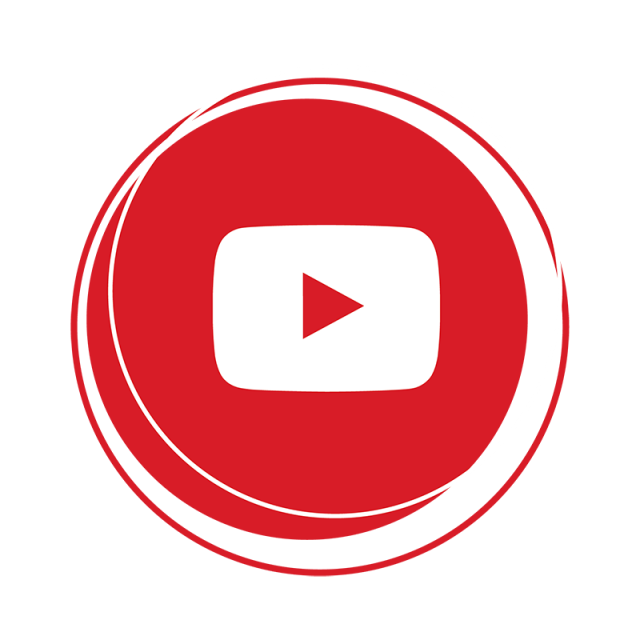
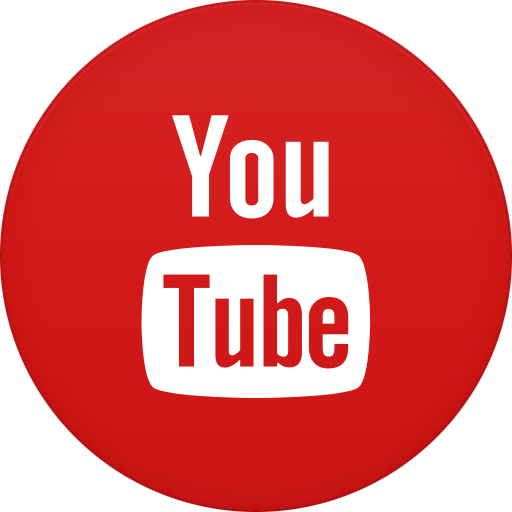
sadsadsa

diff --git a/src/scenes/Reincorporacion/Reincorporacion.js b/src/scenes/Reincorporacion/Reincorporacion.js
@@ -1,0 +1,95 @@
+import React, { useEffect } from 'react';
+import { Table, Divider, Tag, Card, Input } from 'antd';
+import { Link } from 'react-router-dom';
+import { useDispatch, useSelector } from 'react-redux';
+
+import LayoutHome from "../../components/LayoutHome/LayoutHome";
+import { json2excel, excel2json } from 'js2excel';
+import exel from "../../assets/image/excel.png";
+
+const { Search } = Input;
+const { Column, ColumnGroup } = Table;
+
+export const Reincorporacion = () => {
+
+	
+
+	// const handleToExel = () => {
+	// 	const jsonConvert = []
+	// 	cropsProducer.forEach(item => {
+	// 		jsonConvert.push({
+	// 			cosigo: item.id,
+	// 			Municipio: item.idMunicipio2.nombre,
+	// 			Vereda: item.idVereda2.nombre,
+	// 			CodigoProductor: item.codigoProductor2.nombres + ' ' + item.codigoProductor2.apellidos,
+	// 			LineaProductiva: item.idLineaProductiva2.nombre,
+	// 			dniProductor: item.dniProductor,
+	// 			hectareas: item.hectareas
+	// 		})
+	// 	})
+	// 	console.log(jsonConvert)
+	// 	json2excel({
+	// 		data: jsonConvert,
+	// 		name: 'user-info-data',
+	// 		formateDate: 'yyyy/mm/dd'
+	// 	});
+	// }
+
+
+	return (
+		<div className="queryuser">
+			<LayoutHome />
+			<div className="queryuser__content">
+				<div className="users--title">
+					<h1>Victimas</h1>
+				</div>
+				<div className="btn-exel">
+					<button className="btn-exel--exel"
+						// onClick={handleToExel}
+					><img className="img-excel" src={exel} /> Descargar</button>
+				</div>
+				<Card title={<p>Ex Combatintes</p>}
+					extra={<Search
+						placeholder="Buscar Usuario"
+						onSearch={value => console.log(value)}
+					/>}
+				>
+					<Table  rowKey="id">
+						<Column title="Nombre." dataIndex="dniProductor" Key="dniProductor" />
+						<Column title="Apellido" dataIndex="codigoProductor2.nombres" Key="codigoProductor2" />
+						<Column title="DNI" dataIndex="hectareas" Key="hectareas" />
+						<Column title="Telefono" dataIndex="idVereda2.nombre" Key="idVereda2" />
+						<Column title="CODIGO" dataIndex="idMunicipio2.nombre" Key="idMunicipio2" />
+						<Column title="Edad" dataIndex="idLineaProductiva2.nombre" Key="idLineaProductiva2" />
+					
+					</Table>
+				</Card>
+			</div>
+            <div className="queryuser__content">
+				<div className="users--title">
+					<h1>EX Combatintes</h1>
+				</div>
+				<div className="btn-exel">
+					<button className="btn-exel--exel"
+						// onClick={handleToExel}
+					><img className="img-excel" src={exel} /> Descargar</button>
+				</div>
+				<Card title={<p>Victimas</p>}
+					extra={<Search
+						placeholder="Buscar Usuario"
+						onSearch={value => console.log(value)}
+					/>}
+				>
+					<Table  rowKey="id">
+                    <Column title="Nombre." dataIndex="dniProductor" Key="dniProductor" />
+						<Column title="Apellido" dataIndex="codigoProductor2.nombres" Key="codigoProductor2" />
+						<Column title="DNI" dataIndex="hectareas" Key="hectareas" />
+						<Column title="Telefono" dataIndex="idVereda2.nombre" Key="idVereda2" />
+						<Column title="CODIGO" dataIndex="idMunicipio2.nombre" Key="idMunicipio2" />
+						<Column title="Edad" dataIndex="idLineaProductiva2.nombre" Key="idLineaProductiva2" />
+					</Table>
+				</Card>
+			</div>
+		</div>
+	)
+}

diff --git a/src/scenes/CadenasProductivas/CadenasProductivas.js b/src/scenes/CadenasProductivas/CadenasProductivas.js
@@ -54,17 +54,6 @@ export const CadenasProductivas = () => {
 			</div>
 			<div className="users__content-cards">
 				{/* listado de las opciones disponibles */}
-
-				<Card
-					className="users__content-cards--card"
-					hoverable
-					cover={<Link to="/tipocadena"><img alt="example" src={cadenas} /></Link>}
-				>
-					<Meta title="Cadenas Productivas" description="¡Gestiona Cadenas productivas dando click aqui!" />
-					<Link className="btn" to="/registrarcadenasproductivas" type="primary" shape="circle">
-						IR
-            			</Link>
-				</Card>
 				<Card
 					className="users__content-cards--card"
 					hoverable
@@ -74,16 +63,6 @@ export const CadenasProductivas = () => {
 					<Link className="btn" to="/cultivos" type="primary" shape="circle">
 						IR
                             </Link>
-				</Card>
-				<Card
-					className="users__content-cards--card"
-					hoverable
-					cover={<Link to="/tipocadena"><img alt="example" src={lineas} /></Link>}
-				>
-					<Meta title="Lineas Productivas" description="¡Gestiona Lineas productivas dando click aqui!" />
-					<Link className="btn" to="/tipocadena" type="primary" shape="circle">
-						IR
-            </Link>
 				</Card>
 			</div>
 			<div className="mesage"><span>¡</span>Aqui puedes gestionar Cadenas Productivas, puedes Consultarlas, Registrarlas, Actualizarlas, Y Eliminarlas con tan solo dar click sobre la opcion que desees<span>!</span></div>

diff --git a/src/scenes/CadenasProductivas/Cultivos/Cultivos.js b/src/scenes/CadenasProductivas/Cultivos/Cultivos.js
@@ -13,27 +13,7 @@ const { Column, ColumnGroup } = Table;
 
 export const Cultivo = () => {
 
-	const data = [
-		{
-			"userId": 1,
-			"userPhoneNumber": 1888888888,
-			"userAddress": 'xxxx',
-			"date": '2013/09/10 09:10'  // string
-		},
-		{
-			"userId": 2,
-			"userPhoneNumber": 1888888888,
-			"userAddress": 'xxxx',
-			"date": new Date()
-		},
-		{
-			"userId": 3,
-			"userPhoneNumber": 1888888888,
-			"userAddress": 'xxxx',
-			"date": new Date()
-		}
-	]
-
+	
 	const dispatch = useDispatch()
 	const { cropsProducer } = useSelector(state => state.crop)
 
@@ -91,15 +71,7 @@ export const Cultivo = () => {
 						<Column title="vereda." dataIndex="idVereda2.nombre" Key="idVereda2" />
 						<Column title="municipio" dataIndex="idMunicipio2.nombre" Key="idMunicipio2" />
 						<Column title="linea productiva" dataIndex="idLineaProductiva2.nombre" Key="idLineaProductiva2" />
-						<Column
-							title="Mas..."
-							Key="action"
-							render={(text, record) => (
-								<span>
-									<Link to="/profile">Ver Mas</Link>
-								</span>
-							)}
-						/>
+					
 					</Table>
 				</Card>
 			</div>

diff --git a/src/scenes/Users/QueryUser/QueryUser.js b/src/scenes/Users/QueryUser/QueryUser.js
@@ -30,7 +30,6 @@ export const QueryUser = () => {
 			title: 'nombres',
 			dataIndex: 'nombres',
 			key: 'nombres',
-			width: '30%',
 			filterDropdown: ({ setSelectedKeys, selectedKeys, confirm, clearFilters }) => (
 				<div style={{ padding: 8 }}>
 					<Input
@@ -63,10 +62,34 @@ export const QueryUser = () => {
 			title: 'apellidos',
 			dataIndex: 'apellidos',
 			key: 'apellidos',
-			width: '20%',
 		},
 		{
-			title: 'idOrganizacion2',
+			title: 'telefono',
+			dataIndex: 'telefono',
+			key: 'telefono',
+		},
+		{
+			title: 'dni',
+			dataIndex: 'dni',
+			key: 'dni',
+		},
+		{
+			title: 'Genero',
+			dataIndex: 'idGenero2.nombre',
+			key: 'idGenero',
+		},
+		{
+			title: 'codigo',
+			dataIndex: 'id',
+			key: 'id',
+		},
+		{
+			title: 'edad',
+			dataIndex: 'edad',
+			key: 'edad',
+		},
+		{
+			title: 'Organizacion',
 			dataIndex: 'idOrganizacion2.nombre',
 			key: 'idOrganizacion2',
 			//...getColumnSearchProps('idOrganizacion2.nombre'),

diff --git a/src/components/Footer/Footer.js b/src/components/Footer/Footer.js
@@ -22,10 +22,10 @@ class Footer extends React.Component{
                     {/* imagenes e iconos de redes sociales de la empresa */}
                     <div className="title">Redes Sociales</div>
                     <div className="images">
-                        <img src={face}/>
-                        <img src={inst}/>
-                        <img src={you}/>
-                        <img src={twi}/>
+                        <a href="https://www.facebook.com/RedAdelcoColombia/"><img src={face}/></a>
+                        <a href="https://www.instagram.com/redadelco/"><img src={inst}/></a>
+                        <a href="https://www.youtube.com/channel/UC9EVBqzvI8UzNT2ZudKf18w"><img src={you}/></a>
+                        <a href="https://twitter.com/RedAdelco"><img src={twi}/></a>
                     </div>
                 </div>
                 {/* contenedor de informacion de la empresa como contactos etc */}

diff --git a/src/scenes/Layout/Private/Private.js b/src/scenes/Layout/Private/Private.js
@@ -29,6 +29,7 @@ import { OrgQuery } from "../../Organizaciones/components/Org/Org";
 import { InfraQuery } from "../../Infraestructura/components/RegisterInfra/QueryInfraestructura/QueryInfraestructura";
 import { Vereda } from "../../CadenasProductivas/Veredas/Veredas";
 import { RegisterVereda } from "../../CadenasProductivas/Veredas/RegistrarVereda";
+import { Reincorporacion } from "../../Reincorporacion/Reincorporacion";
 
 export const Private = () => {
 
@@ -68,6 +69,7 @@ export const Private = () => {
         <Route path="/infraquery/" component={InfraQuery} />
         <Route path="/vereda/" component={Vereda} />
         <Route path="/register-vereda/" component={RegisterVereda} />
+        <Route path="/reincorporacion/" component={Reincorporacion} />
       </Router>
     </div>
   );

diff --git a/src/components/LayoutHome/LayoutHome.js b/src/components/LayoutHome/LayoutHome.js
@@ -51,7 +51,7 @@ class LayoutHome extends React.Component {
             <Link className="layout-home__nav__index" to="/organizaciones">
               SOCIAL
             </Link>
-            <Link className="layout-home__nav__index" to="/organizaciones">
+            <Link className="layout-home__nav__index" to="/reincorporacion">
               REINCORPORACION
             </Link>
             <Link className="layout-home__nav__index" to="/users">

diff --git a/src/scenes/CadenasProductivas/Veredas/Veredas.js b/src/scenes/CadenasProductivas/Veredas/Veredas.js
@@ -36,7 +36,7 @@ export const Vereda = () => {
 				>
 					<Table dataSource={veredas} rowKey="id">
 						<Column title="Codigo" dataIndex="id" Key="id" />
-						<Column title="nombre" dataIndex="nombre" Key="nmbre" />
+						<Column title="nombre" dataIndex="nombre" Key="nombre" />
 						<Column title="Municipio" dataIndex="idMunicipio2.nombre" Key="idMunicipio2" />
 
 					</Table>

diff --git a/src/scenes/Organizaciones/components/RegisterOrg/RegisterOrg.js b/src/scenes/Organizaciones/components/RegisterOrg/RegisterOrg.js
@@ -63,7 +63,7 @@ const FormRegisterOrg = (props) => {
 
 						<div className="RegisterOrg--form__content-1--rigth">
 							<div className="RegisterOrg--form__content-1--rigth--title">
-								Datos Dela Organizacion
+								Datos De la Organizacion
 							</div>
 
 							<div className="form">

diff --git a/src/scenes/Home.scss b/src/scenes/Home.scss
@@ -1,4 +1,7 @@
 .home{
+    .alice-carousel__prev-btn-wrapper , .alice-carousel__next-btn {
+        display: none;
+    }
     &__img{
         width: 100%;
         img{
